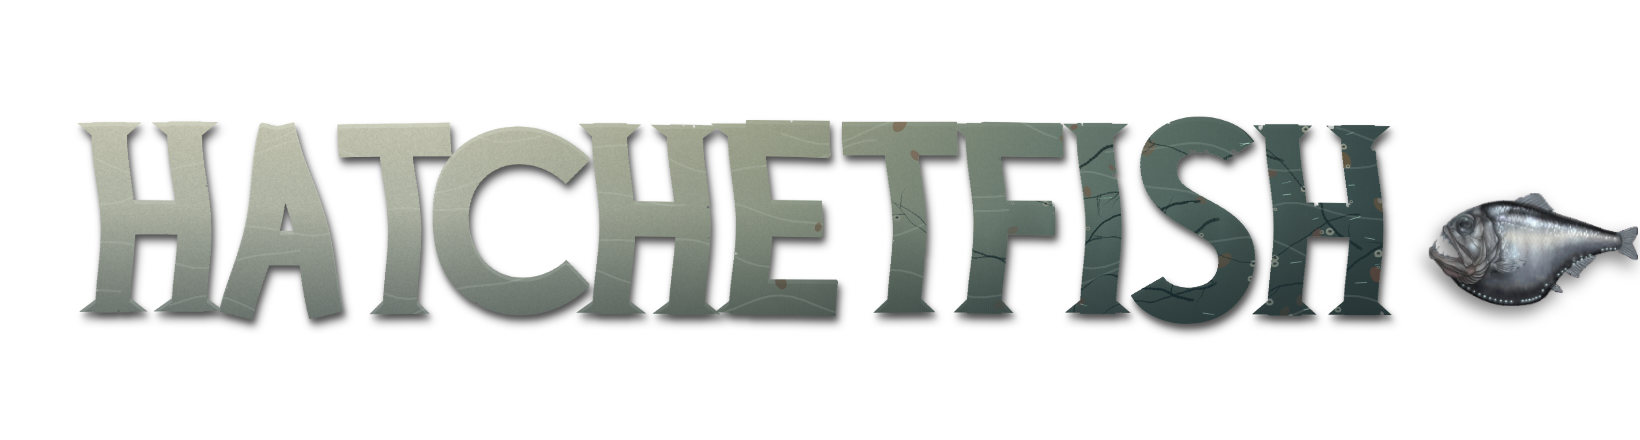
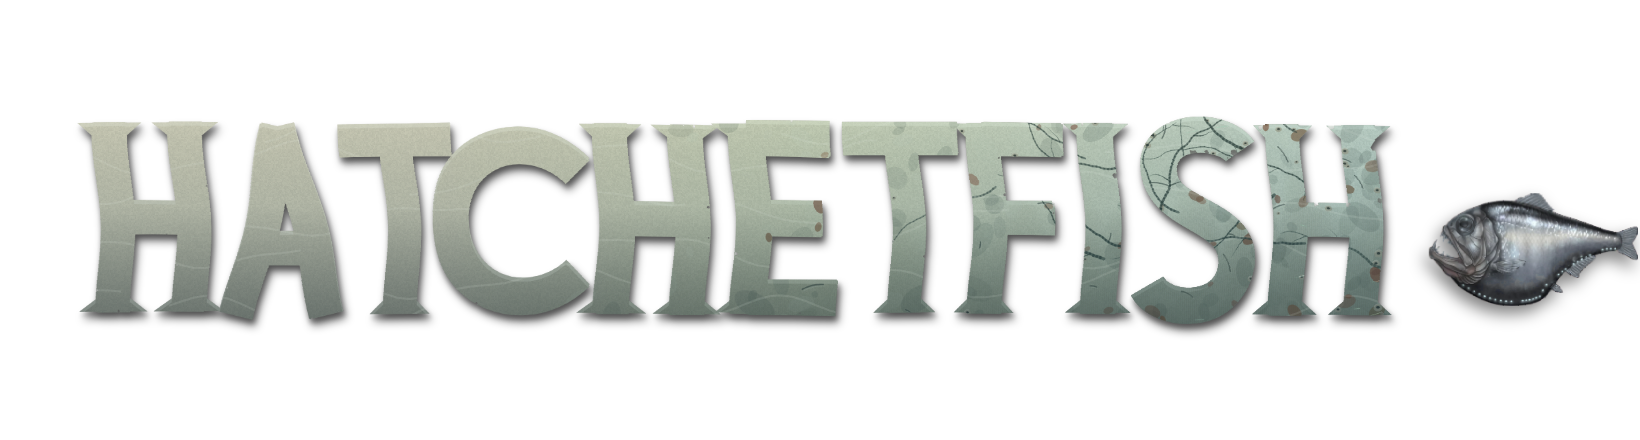
7.6.36: the name one brightness (the deep in hue, mottling and scars, not darkening); a worn scroll, a Heart too, moves to the other slot
Claude-Session: https://claude.ai/code/session_01UMKfFhmPWZXhPNpUpqLy9s

Changed region(s): [[0.4043, 0.2659, 0.8707, 0.7386]]

diff --git a/index.html b/index.html
@@ -81,8 +81,8 @@
   <link rel="preconnect" href="https://fonts.googleapis.com">
   <link rel="preconnect" href="https://fonts.gstatic.com" crossorigin>
   <link href="https://fonts.googleapis.com/css2?family=Barlow+Semi+Condensed:wght@400;500;600;700&display=block" rel="stylesheet">
-  <link rel="stylesheet" href="css/style.css?v=7.6.35">
-  <link rel="stylesheet" href="css/olive.css?v=7.6.35">
+  <link rel="stylesheet" href="css/style.css?v=7.6.36">
+  <link rel="stylesheet" href="css/olive.css?v=7.6.36">
   <style>
     /* (4.17.2) the loading screen, poster-style: the painting left alone (only a slow push-in), and over it, at the
        lower left, flat type in the sunset's own orange and a warm off-white: a stamped helmet mark, the title, a
@@ -438,96 +438,96 @@
   <!-- stamp:start (tools/stamp.py) -->
   <script type="importmap">
   { "imports": {
-    "./js/abilities.js": "./js/abilities.js?v=7.6.35",
-    "./js/alarm.js": "./js/alarm.js?v=7.6.35",
-    "./js/aquarium.js": "./js/aquarium.js?v=7.6.35",
-    "./js/aquarium_draw.js": "./js/aquarium_draw.js?v=7.6.35",
-    "./js/arm.js": "./js/arm.js?v=7.6.35",
-    "./js/audio.js": "./js/audio.js?v=7.6.35",
-    "./js/autopilot.js": "./js/autopilot.js?v=7.6.35",
-    "./js/barge_draw.js": "./js/barge_draw.js?v=7.6.35",
-    "./js/buoy_draw.js": "./js/buoy_draw.js?v=7.6.35",
-    "./js/cabin.js": "./js/cabin.js?v=7.6.35",
-    "./js/capture.js": "./js/capture.js?v=7.6.35",
-    "./js/catalog.js": "./js/catalog.js?v=7.6.35",
-    "./js/chart.js": "./js/chart.js?v=7.6.35",
-    "./js/chest_art.js": "./js/chest_art.js?v=7.6.35",
-    "./js/chests.js": "./js/chests.js?v=7.6.35",
-    "./js/clouds.js": "./js/clouds.js?v=7.6.35",
-    "./js/codes.js": "./js/codes.js?v=7.6.35",
-    "./js/coin_art.js": "./js/coin_art.js?v=7.6.35",
-    "./js/coins.js": "./js/coins.js?v=7.6.35",
-    "./js/contracts.js": "./js/contracts.js?v=7.6.35",
-    "./js/creatures_draw.js": "./js/creatures_draw.js?v=7.6.35",
-    "./js/dave.js": "./js/dave.js?v=7.6.35",
-    "./js/dave_art.js": "./js/dave_art.js?v=7.6.35",
-    "./js/designs.js": "./js/designs.js?v=7.6.35",
-    "./js/earl_draw.js": "./js/earl_draw.js?v=7.6.35",
-    "./js/economy.js": "./js/economy.js?v=7.6.35",
-    "./js/entity.js": "./js/entity.js?v=7.6.35",
-    "./js/face_draw.js": "./js/face_draw.js?v=7.6.35",
-    "./js/fatfinger.js": "./js/fatfinger.js?v=7.6.35",
-    "./js/fauna.js": "./js/fauna.js?v=7.6.35",
-    "./js/fittings.js": "./js/fittings.js?v=7.6.35",
-    "./js/gallery.js": "./js/gallery.js?v=7.6.35",
-    "./js/gauge_art.js": "./js/gauge_art.js?v=7.6.35",
-    "./js/gear_art.js": "./js/gear_art.js?v=7.6.35",
-    "./js/glyphs.js": "./js/glyphs.js?v=7.6.35",
-    "./js/hud.js": "./js/hud.js?v=7.6.35",
-    "./js/hunters.js": "./js/hunters.js?v=7.6.35",
-    "./js/input.js": "./js/input.js?v=7.6.35",
-    "./js/item_art.js": "./js/item_art.js?v=7.6.35",
-    "./js/item_data.js": "./js/item_data.js?v=7.6.35",
-    "./js/item_words.js": "./js/item_words.js?v=7.6.35",
-    "./js/itemcard.js": "./js/itemcard.js?v=7.6.35",
-    "./js/items.js": "./js/items.js?v=7.6.35",
-    "./js/journal_tank.js": "./js/journal_tank.js?v=7.6.35",
-    "./js/kit_art.js": "./js/kit_art.js?v=7.6.35",
-    "./js/legendfx.js": "./js/legendfx.js?v=7.6.35",
-    "./js/main.js": "./js/main.js?v=7.6.35",
-    "./js/messages.js": "./js/messages.js?v=7.6.35",
-    "./js/monster_draw.js": "./js/monster_draw.js?v=7.6.35",
-    "./js/oldone.js": "./js/oldone.js?v=7.6.35",
-    "./js/petfeed.js": "./js/petfeed.js?v=7.6.35",
-    "./js/pets.js": "./js/pets.js?v=7.6.35",
-    "./js/petshop.js": "./js/petshop.js?v=7.6.35",
-    "./js/player.js": "./js/player.js?v=7.6.35",
-    "./js/purchases.js": "./js/purchases.js?v=7.6.35",
-    "./js/quests.js": "./js/quests.js?v=7.6.35",
-    "./js/render.js": "./js/render.js?v=7.6.35",
-    "./js/reveal.js": "./js/reveal.js?v=7.6.35",
-    "./js/scenery_draw.js": "./js/scenery_draw.js?v=7.6.35",
-    "./js/scrolls.js": "./js/scrolls.js?v=7.6.35",
-    "./js/settings.js": "./js/settings.js?v=7.6.35",
-    "./js/shelf.js": "./js/shelf.js?v=7.6.35",
-    "./js/showcase.js": "./js/showcase.js?v=7.6.35",
-    "./js/sleeper_draw.js": "./js/sleeper_draw.js?v=7.6.35",
-    "./js/species.js": "./js/species.js?v=7.6.35",
-    "./js/species_looks.js": "./js/species_looks.js?v=7.6.35",
-    "./js/specimens.js": "./js/specimens.js?v=7.6.35",
-    "./js/station_draw.js": "./js/station_draw.js?v=7.6.35",
-    "./js/store.js": "./js/store.js?v=7.6.35",
-    "./js/suit_art.js": "./js/suit_art.js?v=7.6.35",
-    "./js/survey.js": "./js/survey.js?v=7.6.35",
-    "./js/tankroom.js": "./js/tankroom.js?v=7.6.35",
-    "./js/textures.js": "./js/textures.js?v=7.6.35",
-    "./js/title_art.js": "./js/title_art.js?v=7.6.35",
-    "./js/tokens.js": "./js/tokens.js?v=7.6.35",
-    "./js/tools_draw.js": "./js/tools_draw.js?v=7.6.35",
-    "./js/touch.js": "./js/touch.js?v=7.6.35",
-    "./js/trail.js": "./js/trail.js?v=7.6.35",
-    "./js/traps.js": "./js/traps.js?v=7.6.35",
-    "./js/tutspot.js": "./js/tutspot.js?v=7.6.35",
-    "./js/ui.js": "./js/ui.js?v=7.6.35",
-    "./js/undocumented_draw.js": "./js/undocumented_draw.js?v=7.6.35",
-    "./js/units.js": "./js/units.js?v=7.6.35",
-    "./js/util.js": "./js/util.js?v=7.6.35",
-    "./js/variants.js": "./js/variants.js?v=7.6.35",
-    "./js/version.js": "./js/version.js?v=7.6.35",
-    "./js/world.js": "./js/world.js?v=7.6.35",
-    "./data/species_about.js": "./data/species_about.js?v=7.6.35",
-    "./data/species_data.js": "./data/species_data.js?v=7.6.35",
-    "./data/species_more.js": "./data/species_more.js?v=7.6.35"
+    "./js/abilities.js": "./js/abilities.js?v=7.6.36",
+    "./js/alarm.js": "./js/alarm.js?v=7.6.36",
+    "./js/aquarium.js": "./js/aquarium.js?v=7.6.36",
+    "./js/aquarium_draw.js": "./js/aquarium_draw.js?v=7.6.36",
+    "./js/arm.js": "./js/arm.js?v=7.6.36",
+    "./js/audio.js": "./js/audio.js?v=7.6.36",
+    "./js/autopilot.js": "./js/autopilot.js?v=7.6.36",
+    "./js/barge_draw.js": "./js/barge_draw.js?v=7.6.36",
+    "./js/buoy_draw.js": "./js/buoy_draw.js?v=7.6.36",
+    "./js/cabin.js": "./js/cabin.js?v=7.6.36",
+    "./js/capture.js": "./js/capture.js?v=7.6.36",
+    "./js/catalog.js": "./js/catalog.js?v=7.6.36",
+    "./js/chart.js": "./js/chart.js?v=7.6.36",
+    "./js/chest_art.js": "./js/chest_art.js?v=7.6.36",
+    "./js/chests.js": "./js/chests.js?v=7.6.36",
+    "./js/clouds.js": "./js/clouds.js?v=7.6.36",
+    "./js/codes.js": "./js/codes.js?v=7.6.36",
+    "./js/coin_art.js": "./js/coin_art.js?v=7.6.36",
+    "./js/coins.js": "./js/coins.js?v=7.6.36",
+    "./js/contracts.js": "./js/contracts.js?v=7.6.36",
+    "./js/creatures_draw.js": "./js/creatures_draw.js?v=7.6.36",
+    "./js/dave.js": "./js/dave.js?v=7.6.36",
+    "./js/dave_art.js": "./js/dave_art.js?v=7.6.36",
+    "./js/designs.js": "./js/designs.js?v=7.6.36",
+    "./js/earl_draw.js": "./js/earl_draw.js?v=7.6.36",
+    "./js/economy.js": "./js/economy.js?v=7.6.36",
+    "./js/entity.js": "./js/entity.js?v=7.6.36",
+    "./js/face_draw.js": "./js/face_draw.js?v=7.6.36",
+    "./js/fatfinger.js": "./js/fatfinger.js?v=7.6.36",
+    "./js/fauna.js": "./js/fauna.js?v=7.6.36",
+    "./js/fittings.js": "./js/fittings.js?v=7.6.36",
+    "./js/gallery.js": "./js/gallery.js?v=7.6.36",
+    "./js/gauge_art.js": "./js/gauge_art.js?v=7.6.36",
+    "./js/gear_art.js": "./js/gear_art.js?v=7.6.36",
+    "./js/glyphs.js": "./js/glyphs.js?v=7.6.36",
+    "./js/hud.js": "./js/hud.js?v=7.6.36",
+    "./js/hunters.js": "./js/hunters.js?v=7.6.36",
+    "./js/input.js": "./js/input.js?v=7.6.36",
+    "./js/item_art.js": "./js/item_art.js?v=7.6.36",
+    "./js/item_data.js": "./js/item_data.js?v=7.6.36",
+    "./js/item_words.js": "./js/item_words.js?v=7.6.36",
+    "./js/itemcard.js": "./js/itemcard.js?v=7.6.36",
+    "./js/items.js": "./js/items.js?v=7.6.36",
+    "./js/journal_tank.js": "./js/journal_tank.js?v=7.6.36",
+    "./js/kit_art.js": "./js/kit_art.js?v=7.6.36",
+    "./js/legendfx.js": "./js/legendfx.js?v=7.6.36",
+    "./js/main.js": "./js/main.js?v=7.6.36",
+    "./js/messages.js": "./js/messages.js?v=7.6.36",
+    "./js/monster_draw.js": "./js/monster_draw.js?v=7.6.36",
+    "./js/oldone.js": "./js/oldone.js?v=7.6.36",
+    "./js/petfeed.js": "./js/petfeed.js?v=7.6.36",
+    "./js/pets.js": "./js/pets.js?v=7.6.36",
+    "./js/petshop.js": "./js/petshop.js?v=7.6.36",
+    "./js/player.js": "./js/player.js?v=7.6.36",
+    "./js/purchases.js": "./js/purchases.js?v=7.6.36",
+    "./js/quests.js": "./js/quests.js?v=7.6.36",
+    "./js/render.js": "./js/render.js?v=7.6.36",
+    "./js/reveal.js": "./js/reveal.js?v=7.6.36",
+    "./js/scenery_draw.js": "./js/scenery_draw.js?v=7.6.36",
+    "./js/scrolls.js": "./js/scrolls.js?v=7.6.36",
+    "./js/settings.js": "./js/settings.js?v=7.6.36",
+    "./js/shelf.js": "./js/shelf.js?v=7.6.36",
+    "./js/showcase.js": "./js/showcase.js?v=7.6.36",
+    "./js/sleeper_draw.js": "./js/sleeper_draw.js?v=7.6.36",
+    "./js/species.js": "./js/species.js?v=7.6.36",
+    "./js/species_looks.js": "./js/species_looks.js?v=7.6.36",
+    "./js/specimens.js": "./js/specimens.js?v=7.6.36",
+    "./js/station_draw.js": "./js/station_draw.js?v=7.6.36",
+    "./js/store.js": "./js/store.js?v=7.6.36",
+    "./js/suit_art.js": "./js/suit_art.js?v=7.6.36",
+    "./js/survey.js": "./js/survey.js?v=7.6.36",
+    "./js/tankroom.js": "./js/tankroom.js?v=7.6.36",
+    "./js/textures.js": "./js/textures.js?v=7.6.36",
+    "./js/title_art.js": "./js/title_art.js?v=7.6.36",
+    "./js/tokens.js": "./js/tokens.js?v=7.6.36",
+    "./js/tools_draw.js": "./js/tools_draw.js?v=7.6.36",
+    "./js/touch.js": "./js/touch.js?v=7.6.36",
+    "./js/trail.js": "./js/trail.js?v=7.6.36",
+    "./js/traps.js": "./js/traps.js?v=7.6.36",
+    "./js/tutspot.js": "./js/tutspot.js?v=7.6.36",
+    "./js/ui.js": "./js/ui.js?v=7.6.36",
+    "./js/undocumented_draw.js": "./js/undocumented_draw.js?v=7.6.36",
+    "./js/units.js": "./js/units.js?v=7.6.36",
+    "./js/util.js": "./js/util.js?v=7.6.36",
+    "./js/variants.js": "./js/variants.js?v=7.6.36",
+    "./js/version.js": "./js/version.js?v=7.6.36",
+    "./js/world.js": "./js/world.js?v=7.6.36",
+    "./data/species_about.js": "./data/species_about.js?v=7.6.36",
+    "./data/species_data.js": "./data/species_data.js?v=7.6.36",
+    "./data/species_more.js": "./data/species_more.js?v=7.6.36"
   } }
   </script>
   <script type="module">if (!window.__shell) import("./js/main.js");</script>

diff --git a/js/title_art.js b/js/title_art.js
@@ -73,21 +73,35 @@ function letters(scale) {
     x.putImageData(id, 0, 0); } // the grain
   { const lip = document.createElement('canvas'); lip.width = cw; lip.height = ch; const lx = lip.getContext('2d'); lx.drawImage(c, 0, 0); lx.globalCompositeOperation = 'source-in'; lx.fillStyle = 'rgb(255,248,226)'; lx.fillRect(0, 0, cw, ch);
     lx.globalCompositeOperation = 'destination-out'; lx.drawImage(mask, 0, 2.2 * scale); x.globalCompositeOperation = 'source-atop'; x.globalAlpha = 0.45; x.drawImage(lip, 0, 0); x.globalAlpha = 1; } // the lit top lip
+  // (7.6.36, owner) one brightness across the word: the deep shows in its hue and texture, never by darkening. The bone's
+  // colour turns, from the C on, toward a drowned olive green and then a cold sea teal, each letter keeping its brightness
+  // ('color' keeps the letters' own light and takes only the hue)
+  { const hu = document.createElement('canvas'); hu.width = cw; hu.height = ch; const hx = hu.getContext('2d'), hg2 = hx.createLinearGradient(cw * 0.28, 0, cw * 0.97, 0);
+    hg2.addColorStop(0, 'rgba(140,150,110,0)'); hg2.addColorStop(0.4, 'rgba(128,140,104,0.5)'); hg2.addColorStop(0.75, 'rgba(114,134,116,0.6)'); hg2.addColorStop(1, 'rgba(106,130,122,0.7)'); /* greyed drowned greens, never cyan */
+    hx.fillStyle = hg2; hx.fillRect(0, 0, cw, ch); hx.globalCompositeOperation = 'destination-in'; hx.drawImage(c, 0, 0);
+    x.globalCompositeOperation = 'color'; x.drawImage(hu, 0, 0); }
   x.globalCompositeOperation = 'source-over';
   // (7.6.35, owner) the deep getting into it, on a layer of its own (so it can breathe on the title): from the C on the
   // bone sinks through olive and drowned green to near black teal by the S H; silt stains rise from the feet; rust crust
   // and small barnacles gather at the corners; fine dark threads creep across the last letters toward the fish; and a
   // few sharp pricks of cold light show only in the darkest letters. All inside the letters' own shape
   const inf = document.createElement('canvas'); inf.width = cw; inf.height = ch; const ix = inf.getContext('2d');
-  { const hg = ix.createLinearGradient(cw * 0.28, 0, cw * 0.97, 0); hg.addColorStop(0, 'rgba(96,100,64,0)'); hg.addColorStop(0.35, 'rgba(92,98,62,0.38)'); hg.addColorStop(0.7, 'rgba(36,62,54,0.66)'); hg.addColorStop(1, 'rgba(12,30,32,0.86)'); ix.fillStyle = hg; ix.fillRect(0, 0, cw, ch);
+  { // (7.6.36, owner) mottling: the paint blotched lighter and darker in about equal measure (texture, not shade), and
+    // scars: short gouges, a dark cut with a pale lip, more of both the further right
+    for (let i = 0; i < 900; i++) { const px = r() * cw, py = r() * ch, f = fAt(px); if (f <= 0.02 || r() > f) continue; const rr = (1.5 + r() * 5) * scale, lt = r() < 0.5;
+      ix.fillStyle = lt ? `rgba(226,236,214,${(0.07 + 0.08 * r()).toFixed(3)})` : `rgba(40,52,44,${(0.08 + 0.09 * r()).toFixed(3)})`; ix.beginPath(); ix.ellipse(px, py, rr * (1 + r()), rr, r() * 3, 0, Math.PI * 2); ix.fill(); }
+    ix.lineCap = 'round';
+    for (let i = 0; i < 160; i++) { const px = r() * cw, py = r() * ch, f = fAt(px); if (f <= 0.1 || r() > f || !solid(px, py)) continue; const L = (3 + r() * 9) * scale, a = (r() - 0.5) * 1.2 + (r() < 0.5 ? 0 : Math.PI / 2), dx = Math.cos(a) * L, dy = Math.sin(a) * L;
+      ix.strokeStyle = 'rgba(30,38,32,0.55)'; ix.lineWidth = Math.max(0.6, 0.7 * scale); ix.beginPath(); ix.moveTo(px - dx / 2, py - dy / 2); ix.quadraticCurveTo(px + dy * 0.15, py - dx * 0.15, px + dx / 2, py + dy / 2); ix.stroke();
+      ix.strokeStyle = 'rgba(236,240,220,0.35)'; ix.lineWidth = Math.max(0.5, 0.45 * scale); ix.beginPath(); ix.moveTo(px - dx / 2 + 0.8 * scale, py - dy / 2 + 0.8 * scale); ix.quadraticCurveTo(px + dy * 0.15 + 0.8 * scale, py - dx * 0.15 + 0.8 * scale, px + dx / 2 + 0.8 * scale, py + dy / 2 + 0.8 * scale); ix.stroke(); }
     for (let sx = 0; sx < cw; sx += 3) { const f = fAt(sx); if (f <= 0) continue; const hh = ch * (0.18 + 0.4 * f) * (0.75 + 0.5 * Math.abs(Math.sin(sx * 0.037) * Math.sin(sx * 0.011 + 1.3))), sg = ix.createLinearGradient(0, ch - pad * scale * 0.9, 0, ch - pad * scale * 0.9 - hh);
-      sg.addColorStop(0, `rgba(48,40,26,${(0.55 * f).toFixed(3)})`); sg.addColorStop(1, 'rgba(48,40,26,0)'); ix.fillStyle = sg; ix.fillRect(sx, 0, 3.4, ch); } // silt stains rising
+      sg.addColorStop(0, `rgba(118,112,80,${(0.42 * f).toFixed(3)})`); sg.addColorStop(1, 'rgba(118,112,80,0)'); /* a mid-tone stain, not a shadow */ ix.fillStyle = sg; ix.fillRect(sx, 0, 3.4, ch); } // silt stains rising
     for (let i = 0; i < 1800; i++) { const px = r() * cw, py = r() * ch, f = fAt(px); if (f <= 0.05 || r() > f * f || !edge(px, py, 3 * scale)) continue;
       if (r() < 0.55) { const rr = (1 + r() * 2.4) * scale; ix.fillStyle = `rgba(${110 + (r() * 30 | 0)},${60 + (r() * 20 | 0)},${34 + (r() * 12 | 0)},${(0.35 + 0.35 * r()).toFixed(3)})`; ix.beginPath(); ix.ellipse(px, py, rr * 1.5, rr, r() * 3, 0, Math.PI * 2); ix.fill(); } // rust crust
       else { const rr = (0.9 + r() * 1.5) * scale; ix.fillStyle = 'rgba(176,170,146,0.85)'; ix.beginPath(); ix.ellipse(px, py, rr, rr * 0.8, 0, 0, Math.PI * 2); ix.fill(); ix.fillStyle = 'rgba(20,22,18,0.8)'; ix.beginPath(); ix.ellipse(px, py - rr * 0.1, rr * 0.42, rr * 0.3, 0, 0, Math.PI * 2); ix.fill(); ix.strokeStyle = 'rgba(230,226,206,0.5)'; ix.lineWidth = Math.max(0.5, rr * 0.25); ix.beginPath(); ix.arc(px, py, rr * 0.85, Math.PI * 1.1, Math.PI * 1.7); ix.stroke(); } } // a barnacle: a pale cone, its dark mouth, light on its rim
     ix.lineCap = 'round';
     for (let i = 0; i < 14; i++) { let px = cw * (0.97 - r() * 0.3), py = ch * (0.15 + r() * 0.7), a = Math.PI + (r() - 0.5) * 1.4; const L = (40 + r() * 90) * scale, w0 = (0.8 + r() * 0.9) * scale; // threads creeping in from the fish's side
-      ix.strokeStyle = `rgba(10,18,16,${(0.55 + 0.3 * r()).toFixed(3)})`; for (let s2 = 0; s2 < L; s2 += 2 * scale) { const k = s2 / L; a += (r() - 0.5) * 0.5; const nx = px + Math.cos(a) * 2 * scale, ny = py + Math.sin(a) * 2 * scale; ix.lineWidth = w0 * (1 - k * 0.8); ix.beginPath(); ix.moveTo(px, py); ix.lineTo(nx, ny); ix.stroke(); px = nx; py = ny; if (r() < 0.04) { let bx = px, by = py, ba = a + (r() < 0.5 ? 0.9 : -0.9); for (let q = 0; q < 8; q++) { const bx2 = bx + Math.cos(ba) * 1.6 * scale, by2 = by + Math.sin(ba) * 1.6 * scale; ix.lineWidth = w0 * 0.4 * (1 - q / 8); ix.beginPath(); ix.moveTo(bx, by); ix.lineTo(bx2, by2); ix.stroke(); bx = bx2; by = by2; ba += (r() - 0.5) * 0.6; } } } }
+      ix.strokeStyle = `rgba(34,48,40,${(0.4 + 0.25 * r()).toFixed(3)})`; for (let s2 = 0; s2 < L; s2 += 2 * scale) { const k = s2 / L; a += (r() - 0.5) * 0.5; const nx = px + Math.cos(a) * 2 * scale, ny = py + Math.sin(a) * 2 * scale; ix.lineWidth = w0 * (1 - k * 0.8); ix.beginPath(); ix.moveTo(px, py); ix.lineTo(nx, ny); ix.stroke(); px = nx; py = ny; if (r() < 0.04) { let bx = px, by = py, ba = a + (r() < 0.5 ? 0.9 : -0.9); for (let q = 0; q < 8; q++) { const bx2 = bx + Math.cos(ba) * 1.6 * scale, by2 = by + Math.sin(ba) * 1.6 * scale; ix.lineWidth = w0 * 0.4 * (1 - q / 8); ix.beginPath(); ix.moveTo(bx, by); ix.lineTo(bx2, by2); ix.stroke(); bx = bx2; by = by2; ba += (r() - 0.5) * 0.6; } } } }
     ix.globalCompositeOperation = 'lighter';
     for (let i = 0; i < 400; i++) { const px = r() * cw, py = r() * ch, f = fAt(px); if (f < 0.6 || r() > (f - 0.6) * 1.2 || !solid(px, py)) continue; const L = (1.2 + r() * 2.2) * scale, an = (r() - 0.5) * 0.6; ix.strokeStyle = `rgba(196,226,200,${(0.5 + 0.4 * r()).toFixed(3)})`; ix.lineWidth = Math.max(0.6, 0.45 * scale); ix.beginPath(); ix.moveTo(px - Math.cos(an) * L, py - Math.sin(an) * L); ix.lineTo(px + Math.cos(an) * L, py + Math.sin(an) * L); ix.stroke(); } // cold pricks of light
     ix.globalCompositeOperation = 'destination-in'; ix.drawImage(c, 0, 0); ix.globalCompositeOperation = 'source-over'; }

diff --git a/js/main.js b/js/main.js
@@ -991,6 +991,11 @@ function buy(kind) {
       ui.showGains([{ kind: 'item', id: it.id, how: 'Bought' }]); tipEquip();
       if (P.wish === it.id) P.wish = null;
     }
+  } else if (kind.startsWith('moveslot:')) { // (7.6.36, owner) a worn scroll to the other slot: the two swap (each keeping its own cooldown), or it moves across when the other is empty
+    const K = kitOf(P); if (K.on.ability && K.on.ability2) { abilSwap(); ok = true; }
+    else if (K.on.ability) { K.on.ability2 = K.on.ability; K.on.ability = null; P.abilReadyAt2 = P.abilReadyAt || 0; P.abilReadyAt = 0; [g.abil, g.abil2] = [{ activeT: 0, maxT: 0, def: null, charges: null, fx: 0 }, g.abil]; ok = true; }
+    else if (K.on.ability2) { K.on.ability = K.on.ability2; K.on.ability2 = null; P.abilReadyAt = P.abilReadyAt2 || 0; P.abilReadyAt2 = 0; [g.abil, g.abil2] = [g.abil2 || { activeT: 0, maxT: 0, def: null, charges: null, fx: 0 }, null]; ok = true; }
+    if (ok) { applyKit(e, P); saveProfile(P); }
   } else if (kind.startsWith('on2:')) { // (7.6.4, owner) the second scroll slot
     const r = putOn2(P, kind.slice(4));
     if (r === 'heart') { hud.toast('One Heart (mythical skill) at a time', 'warn'); return false; }

diff --git a/js/ui.js b/js/ui.js
@@ -1463,6 +1463,7 @@ export class UI {
     if (on) {
       body = `<div class="ip-cols one">${this.chargeCol(P, q, 'You have it on')}</div>`;
       const starter = it.kind === 'net' ? null : FREE_IDS[it.kind]; // (6.9.1) a net unequipped leaves the hands empty, the hand net too
+      if (free && it.kind === 'ability') acts += `<button data-lk="moveslot:${q.u}">${on2 ? 'Put it on' : 'Second slot'}</button>`; // (7.6.36, owner) a worn scroll (a Heart too) moves to the other slot
       if (free && !(starter && q.id === starter)) acts += `<button data-lk="off:${on2 ? 'ability2' : it.kind}">Unequip${starter ? ` <small>(${ITEMS[starter].name} back on)</small>` : ''}</button>`;
     } else {
       // the numbers, a row each: his now, this one, which is better

diff --git a/js/version.js b/js/version.js
@@ -1,3 +1,3 @@
 // The game's version. Bumped with every change: the last number for small fixes and tweaks,
 // the middle one for new features or bigger changes, the first for a major overhaul.
-export const VERSION = '7.6.35';
+export const VERSION = '7.6.36';

diff --git a/CLAUDE.md b/CLAUDE.md
@@ -304,6 +304,10 @@ last desktop build is kept on the branch `desktop-4.25.5`).
   from the fish's side, a few cold pricks of light; light through the surface a broken net of wavering lines (never
   rings); a tight contact shadow. The hatchetfish's light organs pale bone, its fins and teeth silver (no cyan). On the
   loading screen the subtitle sits lower, centred under the word.
+- (7.6.36, owner) The name is one brightness across the word: the deep shows in hue (a 'color' blend that keeps each
+  letter's light: olive to greyed drowned green, never cyan), mottling, gouged scars, mid-tone silt stains, rust,
+  barnacles and threads, never by darkening. A worn scroll's card (a Heart's too) moves it to the other slot (Second slot
+  / Put it on; main.js `moveslot:`), the two swapping with their own cooldowns.
 - **(7.6.28, 7.6.33, owner) Saves carry over**: a change must not wipe or break the owner's saves (economy.js `migrate` fills
   anything new from a fresh profile), and the game quietly keeps the last version's save beside each slot
   (`earl.save.slotN.prev`; economy.js `restorePrevSave`). No backup or restore buttons (7.6.34, owner: unnecessary). Superseded:

diff --git a/README.md b/README.md
@@ -1,6 +1,6 @@
 # Hatchetfish — Deep Sea Survival
 
-Version 7.6.35 (shown on the home screen and in the pause menu; see `js/version.js`).
+Version 7.6.36 (shown on the home screen and in the pause menu; see `js/version.js`).
 
 A 2D ocean diving and survival horror game that runs in the browser (desktop).
 
